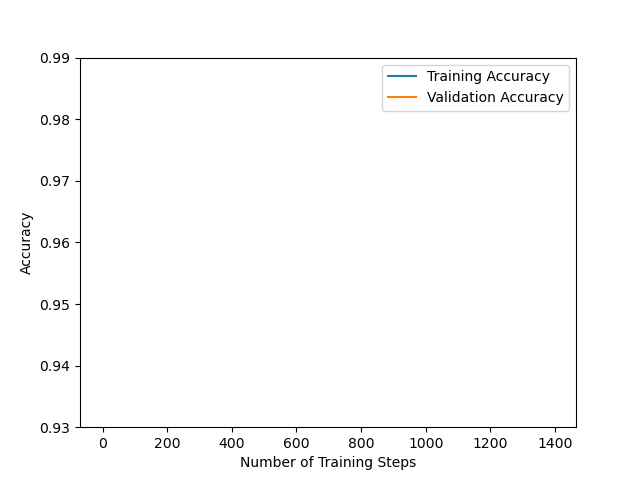
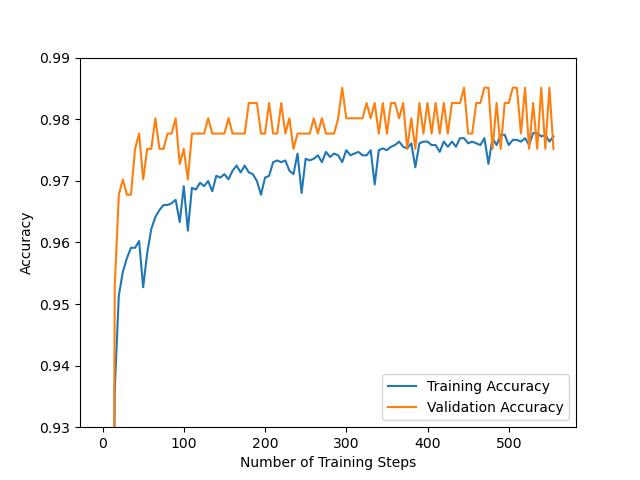
2d - implement early stopping

diff --git a/assignment1/task2.py b/assignment1/task2.py
@@ -1,3 +1,4 @@
+from os import access
 import numpy as np
 import utils
 import matplotlib.pyplot as plt
@@ -16,7 +17,12 @@ def calculate_accuracy(X: np.ndarray, targets: np.ndarray, model: BinaryModel) -
         Accuracy (float)
     """
     # TODO Implement this function (Task 2c)
-    accuracy = 0.0
+
+    predictions = model.forward(X)
+    true_predictions = predictions > 0.5
+    correct_predictions = true_predictions == targets
+    accuracy = np.sum(correct_predictions) / len(predictions)
+
     return accuracy
 
 
@@ -38,12 +44,9 @@ class LogisticTrainer(BaseTrainer):
         outputs = self.model.forward(X_batch)
 
         self.model.backward(X_batch, outputs, Y_batch)
-        # print(self.model.w, self.model.grad)
         self.model.w -= self.learning_rate * self.model.grad
 
         loss = cross_entropy_loss(Y_batch, outputs)
-        print(loss)
-        # exit()
         return loss
 
     def validation_step(self):
@@ -71,7 +74,7 @@ class LogisticTrainer(BaseTrainer):
 
 if __name__ == "__main__":
     # hyperparameters DO NOT CHANGE IF NOT SPECIFIED IN ASSIGNMENT TEXT
-    num_epochs = 50
+    num_epochs = 500
     learning_rate = 0.05
     batch_size = 128
     shuffle_dataset = False

diff --git a/assignment1/trainer.py b/assignment1/trainer.py
@@ -73,6 +73,7 @@ class BaseTrainer:
         )
 
         global_step = 0
+        early_stop = False
         for epoch in range(num_epochs):
             train_loader = utils.batch_loader(
                 self.X_train, self.Y_train, self.batch_size, shuffle=self.shuffle_dataset)
@@ -90,5 +91,12 @@ class BaseTrainer:
 
                     # TODO (Task 2d): Implement early stopping here.
                     # You can access the validation loss in val_history["loss"]
+                    losses = [*val_history["loss"].values()]
+                    if len(losses) > 10 and np.all(losses[-11] < losses[-10:]):
+                        early_stop = True
+
+                    print('Step:', global_step, end='\r')
                 global_step += 1
+            if early_stop:
+                break
         return train_history, val_history
